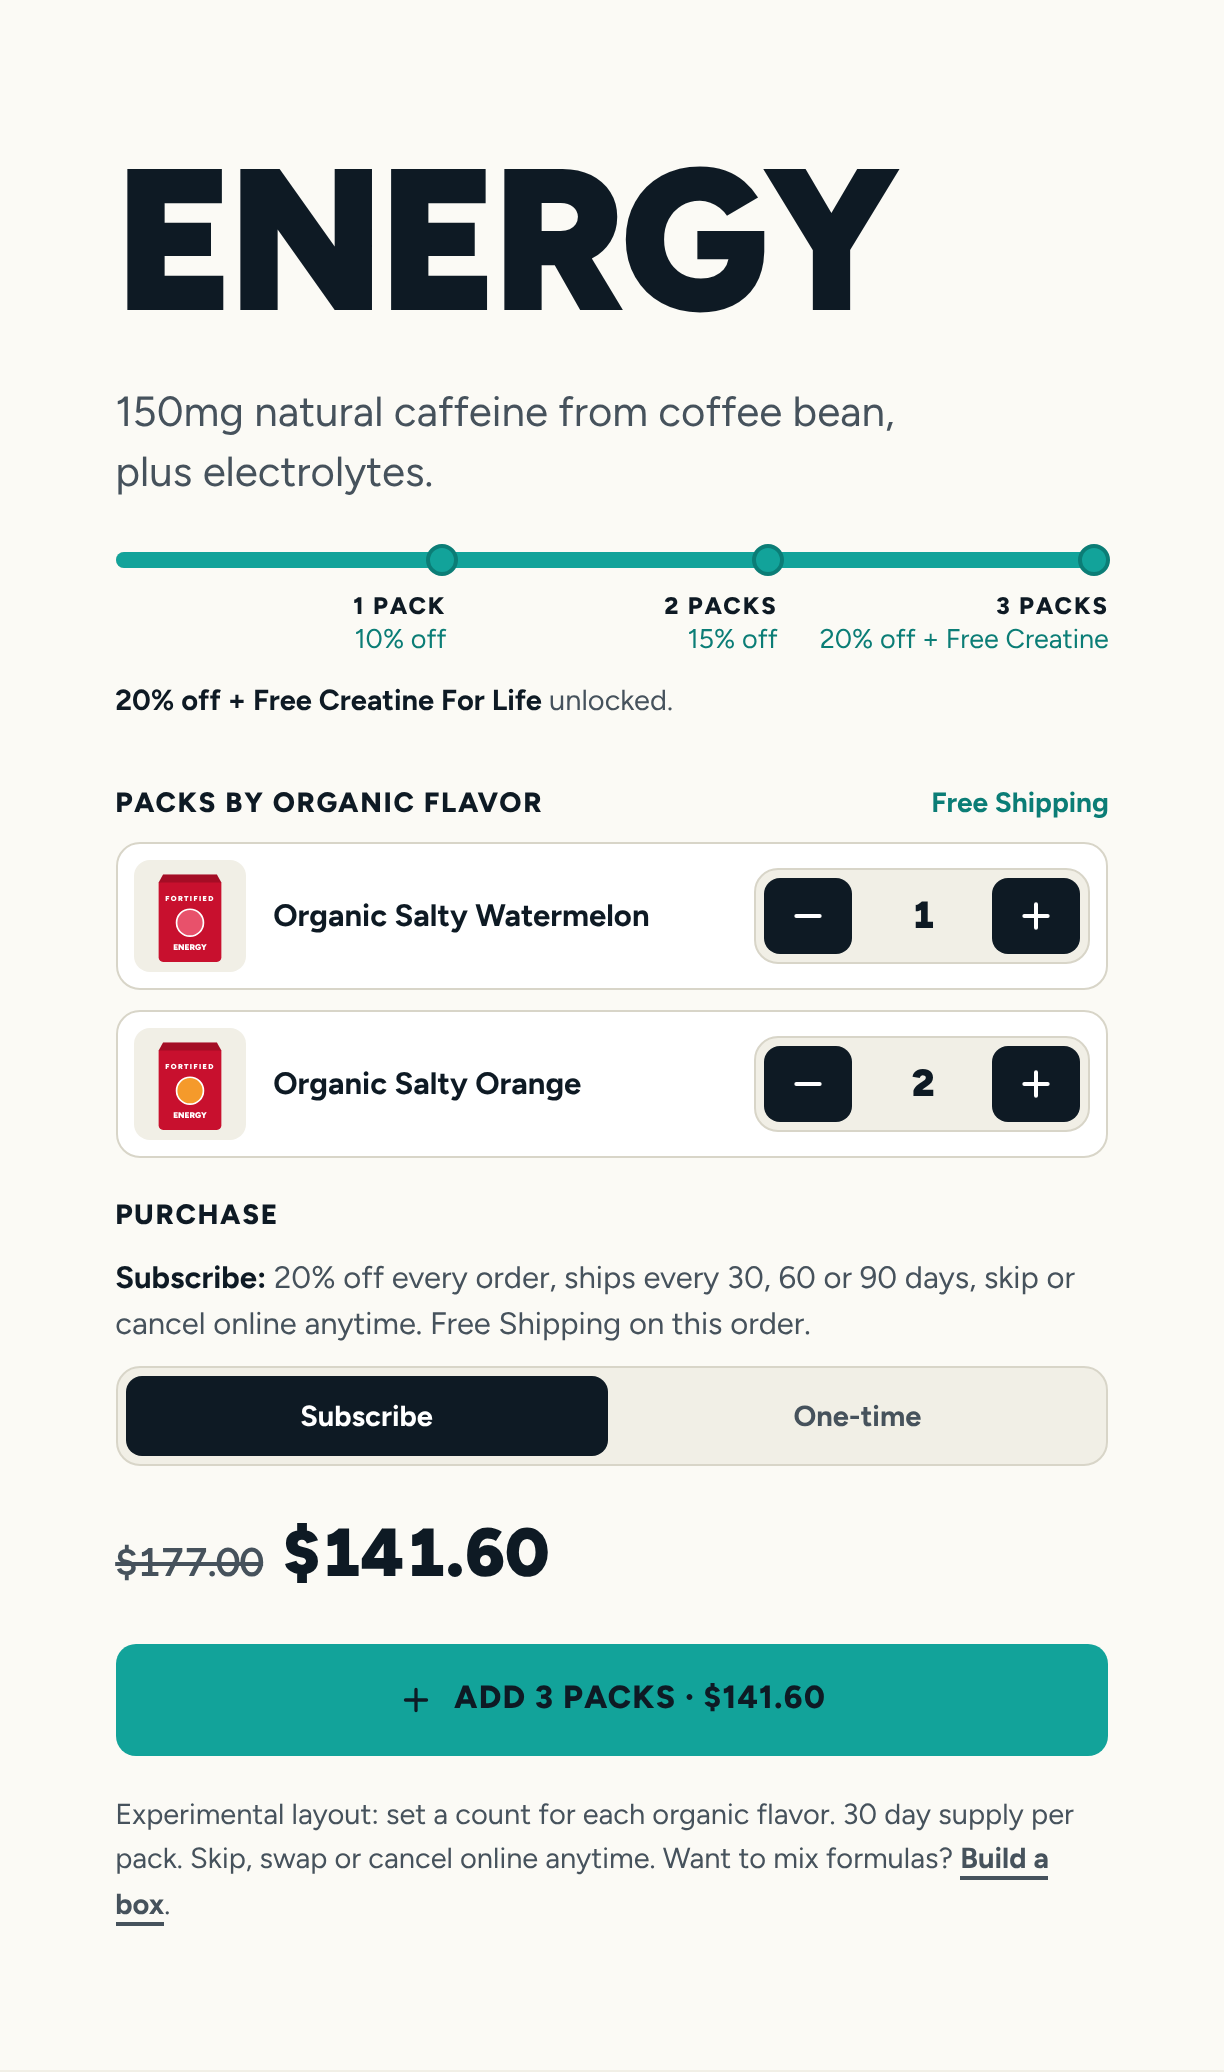
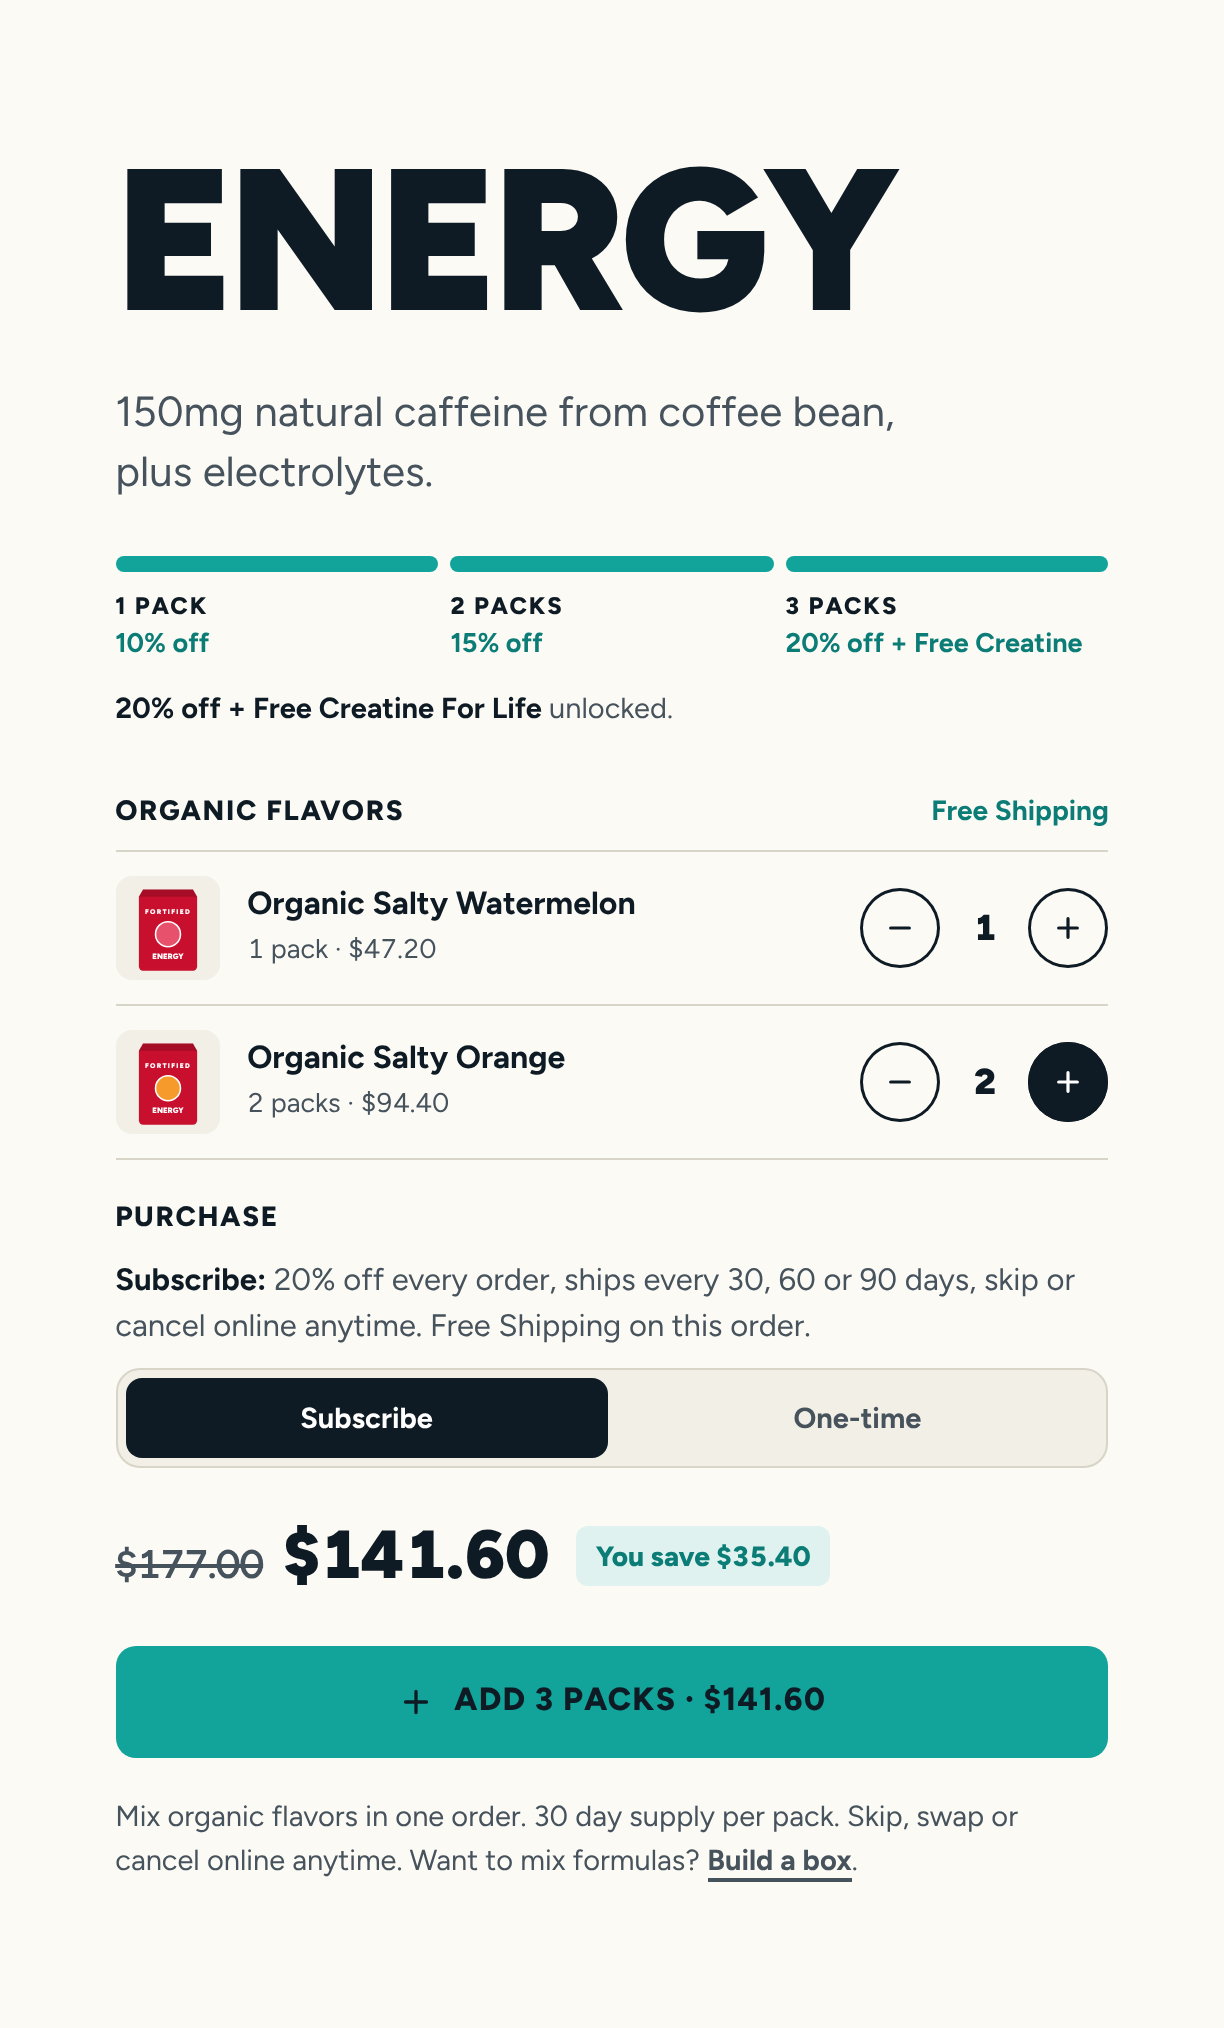
Clean up the per-flavor product page
- Tier bar is now three segments, one per tier, with the next tier
  hinted; replaces the dotted track (also on the standard product page).
- Flavor rows sit on hairlines instead of boxed cards, with compact
  round steppers and a per-flavor subtotal.
- Price line adds a You save amount; shopper copy no longer says
  experimental; shorter Organic flavors label.
- Smaller product stage on phones so the buy box starts sooner.

Claude-Session: https://claude.ai/code/session_01Hy9Tx2bmaV9u7xgwG4XAGv

diff --git a/mockups/site/site.css b/mockups/site/site.css
@@ -442,7 +442,7 @@ body { padding-top: var(--head); }
 .pd__buy .d1 { font-size: clamp(56px, 7vw, 104px); }
 .pd__opts { display: grid; gap: 18px; margin-top: 30px; }
 .opt__label { display: flex; justify-content: space-between; gap: 12px; font-weight: 800; font-size: 14px; letter-spacing: .06em; text-transform: uppercase; margin-bottom: 8px; }
-.opt__aside { color: var(--teal-ink); text-transform: none; letter-spacing: 0; font-weight: 700; }
+.opt__aside { color: var(--teal-ink); text-transform: none; letter-spacing: 0; font-weight: 700; white-space: nowrap; }
 .pd__price { font-size: 34px; font-weight: 900; letter-spacing: -.02em; }
 .pd__price s { font-size: 20px; color: var(--ink-2); font-weight: 600; margin-right: 10px; }
 .pd__fine { margin: 0; font-size: 14.5px; color: var(--ink-2); }
@@ -563,34 +563,37 @@ html[data-page="home"] .hero__receipt { margin-bottom: 0; }
 .plan-note { margin: 0 0 10px; font-size: 15.5px; line-height: 1.5; color: var(--ink-2); max-width: 60ch; }
 .plan-note b { color: var(--ink); }
 
-/* Subscribe tier bar under the product description */
-.tiers { margin-top: 24px; }
-.tiers__track { position: relative; height: 8px; border-radius: 4px; background: var(--paper-2); box-shadow: inset 0 0 0 1px var(--rule); margin: 0 7px 0 0; }
-.tiers__fill { position: absolute; inset: 0; border-radius: 4px; background: var(--teal); transform-origin: left; transform: scaleX(0); transition: transform .45s var(--ease-out); }
-.tiers__track i { position: absolute; top: 50%; width: 16px; height: 16px; margin: -8px 0 0 -8px; border-radius: 50%; background: var(--paper); border: 2px solid var(--rule); transition: background-color .25s, border-color .25s; }
-.tiers__track i:nth-of-type(1) { left: 33.333%; }
-.tiers__track i:nth-of-type(2) { left: 66.666%; }
-.tiers__track i:nth-of-type(3) { left: 100%; }
-.tiers__steps { list-style: none; padding: 0; margin: 12px 0 0; display: grid; grid-template-columns: repeat(3, minmax(0, 1fr)); }
-.tiers__steps li { text-align: right; padding-left: 8px; font-size: 13.5px; line-height: 1.3; color: var(--ink-2); transition: color .25s; }
-.tiers__steps b { display: block; font-size: 12px; font-weight: 800; letter-spacing: .08em; text-transform: uppercase; }
-.tiers__steps li.is-on { color: var(--teal-ink); }
-.tiers__steps li.is-on b { color: var(--ink); }
-.tiers__steps li.is-next span { color: var(--ink); font-weight: 700; }
-.tiers__msg { margin: 10px 0 0; font-size: 14.5px; color: var(--ink-2); }
+/* Subscribe tier bar under the product description: three segments, one per tier */
+.tiers { margin-top: 26px; }
+.tiers__steps { list-style: none; padding: 0; margin: 0; display: grid; grid-template-columns: repeat(3, minmax(0, 1fr)); gap: 6px; }
+.tiers__steps li { display: grid; gap: 2px; align-content: start; font-size: 13.5px; line-height: 1.3; color: var(--ink-2); transition: color .25s; }
+.tiers__seg { display: block; height: 8px; border-radius: 4px; background: var(--paper-2); box-shadow: inset 0 0 0 1px var(--rule); margin-bottom: 8px; transition: background-color .3s var(--ease-out), box-shadow .3s; }
+.tiers__steps b { font-size: 12px; font-weight: 800; letter-spacing: .08em; text-transform: uppercase; color: var(--ink); }
+.tiers__steps li.is-on .tiers__seg { background: var(--teal); box-shadow: none; }
+.tiers__steps li.is-on span { color: var(--teal-ink); font-weight: 700; }
+.tiers__steps li.is-next .tiers__seg { background: repeating-linear-gradient(90deg, var(--teal-wash) 0 6px, #fff 6px 10px); box-shadow: inset 0 0 0 1px #9fd8d2; }
+.tiers__msg { margin: 12px 0 0; font-size: 14.5px; color: var(--ink-2); }
 .tiers__msg b { color: var(--ink); }
-.tiers.is-off .tiers__steps li { color: #8a9299; }
-.tiers__track i.is-on { background: var(--teal); border-color: var(--teal-ink); }
+.tiers.is-off .tiers__steps b, .tiers.is-off .tiers__steps span { color: #8a9299; }
 
-/* Experimental: quantity per organic flavor */
-.flavor-rows { display: grid; gap: 10px; }
-.flavor-row { display: grid; grid-template-columns: 56px minmax(0, 1fr) 168px; gap: 14px; align-items: center; padding: 8px 8px 8px 8px; border-radius: 12px; border: 1px solid var(--rule); background: #fff; transition: opacity .2s, border-color .2s; }
+/* Packs by organic flavor: plain rows on hairlines, compact steppers */
+.flavor-rows { border-top: 1px solid var(--rule); }
+.flavor-row { display: grid; grid-template-columns: 52px minmax(0, 1fr) auto; gap: 14px; align-items: center; padding: 12px 0; border-bottom: 1px solid var(--rule); transition: opacity .2s; }
 .flavor-row .pack { border-radius: 8px; background: var(--paper-2); }
-.flavor-row b { font-size: 15.5px; line-height: 1.25; }
-.flavor-row.is-zero { opacity: .7; }
-.flavor-row .stepper { grid-template-columns: 44px minmax(0, 1fr) 44px; height: 48px; }
-.flavor-row .stepper input { font-size: 19px; }
-@media (max-width: 640px) { .flavor-row { grid-template-columns: 48px minmax(0, 1fr); } .flavor-row .stepper { grid-column: 1 / -1; } }
+.flavor-row__name { display: grid; gap: 2px; min-width: 0; }
+.flavor-row__name b { font-size: 16px; line-height: 1.25; }
+.flavor-row__name span { font-size: 13.5px; color: var(--ink-2); font-variant-numeric: tabular-nums; }
+.flavor-row.is-zero .pack, .flavor-row.is-zero .flavor-row__name { opacity: .55; }
+.stepper.stepper--sm { grid-template-columns: 40px 40px 40px; height: auto; padding: 0; gap: 2px; background: none; border: 0; }
+.stepper.stepper--sm button { width: 40px; height: 40px; border-radius: 50%; background: transparent; color: var(--ink); box-shadow: inset 0 0 0 1.5px var(--ink); }
+.stepper.stepper--sm button:hover:not(:disabled) { background: var(--ink); color: #fff; }
+.stepper.stepper--sm button:disabled { box-shadow: inset 0 0 0 1.5px var(--rule); color: #a3a9ae; background: transparent; }
+.stepper.stepper--sm button svg { width: 16px; height: 16px; }
+.stepper.stepper--sm input { font-size: 18px; height: 40px; }
+
+/* Price line with savings */
+.pd__price-row { display: flex; align-items: center; flex-wrap: wrap; gap: 8px 14px; }
+.pd__save { display: inline-flex; align-items: center; height: 30px; padding: 0 10px; border-radius: 6px; background: var(--teal-wash); color: var(--teal-ink); font-weight: 800; font-size: 14px; }
 
 /* Pack quantity stepper (product buy box) */
 .stepper { display: grid; grid-template-columns: 56px minmax(0, 1fr) 56px; align-items: stretch; height: 56px; padding: 4px; gap: 4px; border-radius: 12px; background: var(--paper-2); border: 1px solid var(--rule); }
@@ -601,3 +604,4 @@ html[data-page="home"] .hero__receipt { margin-bottom: 0; }
 .stepper input { min-width: 0; border: 0; border-radius: 8px; background: transparent; text-align: center; font-size: 22px; font-weight: 900; color: var(--ink); -moz-appearance: textfield; appearance: textfield; }
 .stepper input::-webkit-outer-spin-button, .stepper input::-webkit-inner-spin-button { -webkit-appearance: none; margin: 0; }
 .stepper input:focus-visible { outline-offset: -3px; }
+@media (max-width: 640px) { .pd__pack { width: min(58%, 250px); } .pd__stage { padding-bottom: 20px; } }

diff --git a/mockups/site/product-flavors.html b/mockups/site/product-flavors.html
@@ -29,22 +29,21 @@
       <p class="lede" data-t="line" data-enter style="--d:80ms">150mg natural caffeine from coffee bean, plus electrolytes.</p>
 
       <div class="tiers" data-tiers data-enter style="--d:110ms" aria-label="Subscribe savings by pack count">
-        <div class="tiers__track" aria-hidden="true"><div class="tiers__fill"></div><i></i><i></i><i></i></div>
         <ol class="tiers__steps">
-          <li data-tier="1"><b>1 pack</b><span>10% off</span></li>
-          <li data-tier="2"><b>2 packs</b><span>15% off</span></li>
-          <li data-tier="3"><b>3 packs</b><span>20% off + Free Creatine</span></li>
+          <li data-tier="1"><i class="tiers__seg" aria-hidden="true"></i><b>1 pack</b><span>10% off</span></li>
+          <li data-tier="2"><i class="tiers__seg" aria-hidden="true"></i><b>2 packs</b><span>15% off</span></li>
+          <li data-tier="3"><i class="tiers__seg" aria-hidden="true"></i><b>3 packs</b><span>20% off + Free Creatine</span></li>
         </ol>
         <p class="tiers__msg" data-tiers-msg aria-live="polite"></p>
       </div>
 
       <div class="pd__opts" data-enter style="--d:140ms">
-        <div class="opt"><div class="opt__label">Packs by organic flavor <span class="opt__aside" data-pd-perk></span></div>
+        <div class="opt"><div class="opt__label">Organic flavors <span class="opt__aside" data-pd-perk></span></div>
           <div class="flavor-rows">
           <div class="flavor-row" data-fq="watermelon">
             <div class="pack" data-flavor-pack="watermelon"></div>
-            <b>Organic Salty Watermelon</b>
-            <div class="stepper">
+            <div class="flavor-row__name"><b>Organic Salty Watermelon</b><span data-fq-sub="watermelon"></span></div>
+            <div class="stepper stepper--sm">
               <button type="button" data-step="-1" aria-label="Remove a Organic Salty Watermelon pack"><svg viewBox="0 0 24 24" fill="none" stroke="currentColor" stroke-width="2.4" stroke-linecap="round" aria-hidden="true"><path d="M5 12h14"/></svg></button>
               <label class="sr" for="fq-watermelon">Organic Salty Watermelon packs</label>
               <input id="fq-watermelon" class="num" type="number" inputmode="numeric" min="0" max="24" value="1">
@@ -53,8 +52,8 @@
           </div>
           <div class="flavor-row" data-fq="orange">
             <div class="pack" data-flavor-pack="orange"></div>
-            <b>Organic Salty Orange</b>
-            <div class="stepper">
+            <div class="flavor-row__name"><b>Organic Salty Orange</b><span data-fq-sub="orange"></span></div>
+            <div class="stepper stepper--sm">
               <button type="button" data-step="-1" aria-label="Remove a Organic Salty Orange pack"><svg viewBox="0 0 24 24" fill="none" stroke="currentColor" stroke-width="2.4" stroke-linecap="round" aria-hidden="true"><path d="M5 12h14"/></svg></button>
               <label class="sr" for="fq-orange">Organic Salty Orange packs</label>
               <input id="fq-orange" class="num" type="number" inputmode="numeric" min="0" max="24" value="1">
@@ -68,9 +67,9 @@
             <button type="button" data-v="sub" aria-pressed="true">Subscribe</button>
             <button type="button" data-v="otp" aria-pressed="false">One-time</button>
           </div></div>
-        <div class="pd__price num" data-pd-price></div>
+        <div class="pd__price-row"><div class="pd__price num" data-pd-price></div><span class="pd__save num" data-pd-save></span></div>
         <button class="btn btn--money btn--block" type="button" data-pd-add>Add to box</button>
-        <p class="pd__fine">Experimental layout: set a count for each organic flavor. 30 day supply per pack. Skip, swap or cancel online anytime. Want to mix formulas? <a class="link" href="shop.html">Build a box</a>.</p>
+        <p class="pd__fine">Mix organic flavors in one order. 30 day supply per pack. Skip, swap or cancel online anytime. Want to mix formulas? <a class="link" href="shop.html">Build a box</a>.</p>
       </div>
     </div>
   </section>

diff --git a/mockups/site/product.html b/mockups/site/product.html
@@ -29,11 +29,10 @@
       <p class="lede" data-t="line" data-enter style="--d:80ms">150mg natural caffeine from coffee bean, plus electrolytes.</p>
 
       <div class="tiers" data-tiers data-enter style="--d:110ms" aria-label="Subscribe savings by pack count">
-        <div class="tiers__track" aria-hidden="true"><div class="tiers__fill"></div><i></i><i></i><i></i></div>
         <ol class="tiers__steps">
-          <li data-tier="1"><b>1 pack</b><span>10% off</span></li>
-          <li data-tier="2"><b>2 packs</b><span>15% off</span></li>
-          <li data-tier="3"><b>3 packs</b><span>20% off + Free Creatine</span></li>
+          <li data-tier="1"><i class="tiers__seg" aria-hidden="true"></i><b>1 pack</b><span>10% off</span></li>
+          <li data-tier="2"><i class="tiers__seg" aria-hidden="true"></i><b>2 packs</b><span>15% off</span></li>
+          <li data-tier="3"><i class="tiers__seg" aria-hidden="true"></i><b>3 packs</b><span>20% off + Free Creatine</span></li>
         </ol>
         <p class="tiers__msg" data-tiers-msg aria-live="polite"></p>
       </div>
@@ -57,7 +56,7 @@
             <button type="button" data-v="sub" aria-pressed="true">Subscribe</button>
             <button type="button" data-v="otp" aria-pressed="false">One-time</button>
           </div></div>
-        <div class="pd__price num" data-pd-price></div>
+        <div class="pd__price-row"><div class="pd__price num" data-pd-price></div><span class="pd__save num" data-pd-save></span></div>
         <button class="btn btn--money btn--block" type="button" data-pd-add>Add to box</button>
         <p class="pd__fine">30 day supply per pack. Skip, swap or cancel online anytime. Want to mix formulas? <a class="link" href="shop.html">Build a box</a>.</p>
       </div>

diff --git a/mockups/site/site.js b/mockups/site/site.js
@@ -391,9 +391,7 @@
     var drawTiers = function (n) {
       var sub = ps.plan === "sub";
       $$("[data-tiers] [data-tier]").forEach(function (t) { var k = +t.dataset.tier; t.classList.toggle("is-on", sub && n >= k); t.classList.toggle("is-next", sub && n + 1 === k); });
-      $$("[data-tiers] .tiers__track i").forEach(function (d, i) { d.classList.toggle("is-on", sub && n >= i + 1); });
       $("[data-tiers]").classList.toggle("is-off", !sub);
-      $("[data-tiers] .tiers__fill").style.transform = "scaleX(" + (sub ? Math.min(n, 3) / 3 : 0) + ")";
       var msg;
       if (!sub) msg = "Tier savings and Free Creatine For Life come with <b>Subscribe</b>.";
       else if (n >= 3) msg = "<b>20% off + Free Creatine For Life</b> unlocked.";
@@ -424,6 +422,9 @@
         ? "<b>Subscribe:</b> " + Math.round(r * 100) + "% off every order, ships every 30, 60 or 90 days, skip or cancel online anytime. " + ship
         : "<b>One-time:</b> full price, one delivery, no subscription. " + ship;
       $("[data-pd-price]").innerHTML = (r ? "<s>" + money(PRICE * n) + "</s>" : "") + money(tot);
+      var saveEl = $("[data-pd-save]");
+      if (saveEl) { saveEl.textContent = r ? "You save " + money(PRICE * n * r) : ""; saveEl.hidden = !r; }
+      $$("[data-fq-sub]").forEach(function (el) { var k = ps.q[el.dataset.fqSub]; el.textContent = k ? k + (k === 1 ? " pack · " : " packs · ") + money(PRICE * k * (1 - r)) : "Not in this order"; });
       $("[data-pd-perk]").textContent = n >= 2 ? "Free Shipping" : "Free Shipping at 2+";
       $("[data-pd-add]").innerHTML = icon("plus") + "Add " + n + (n === 1 ? " pack" : " packs") + " · " + money(tot);
       drawTiers(n);
